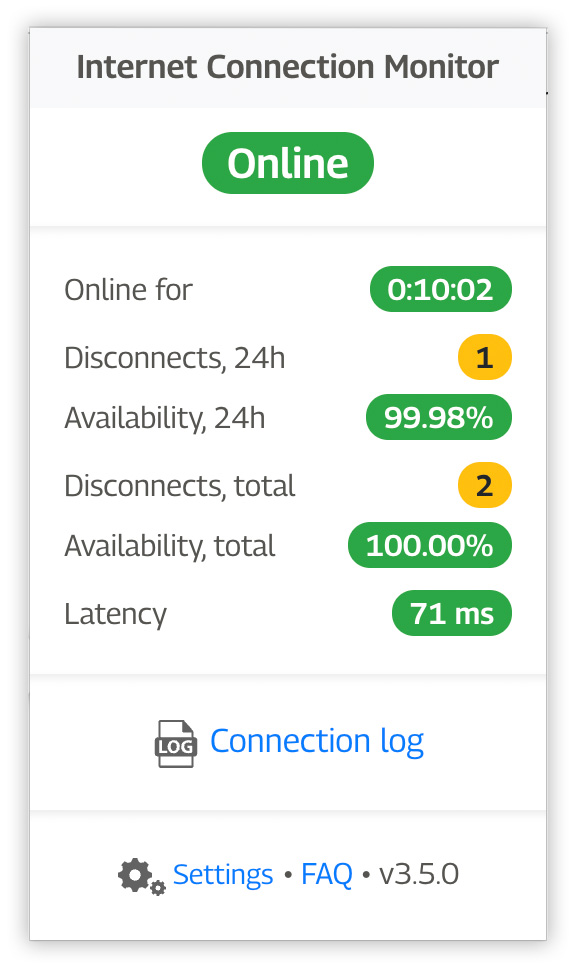
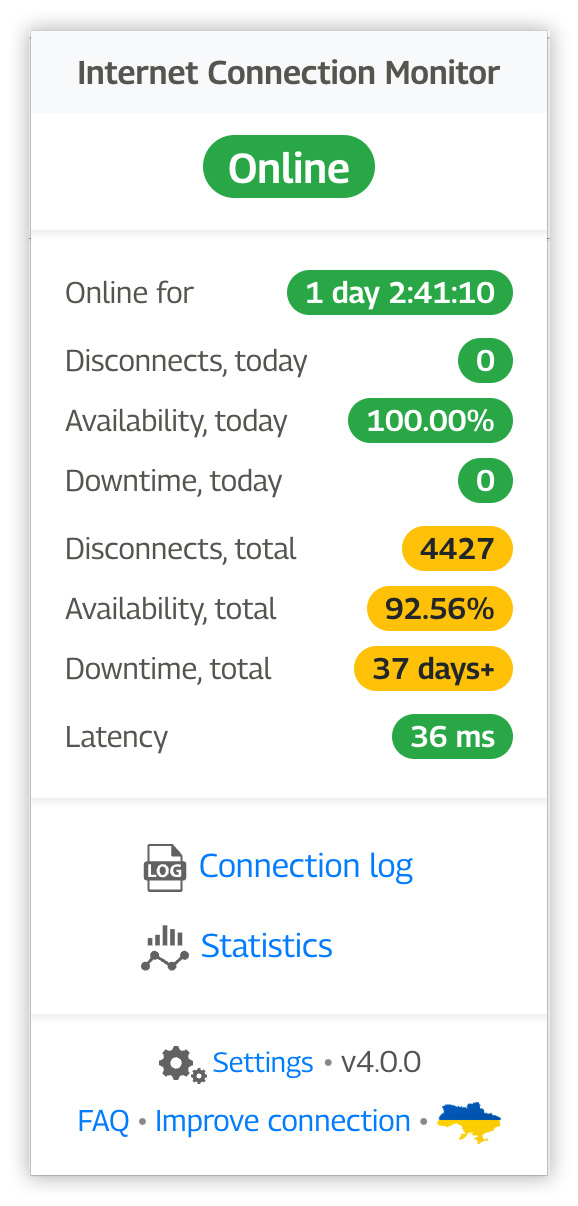
Updates for version 4.0

diff --git a/index.html b/index.html
@@ -36,7 +36,7 @@
     <div class="row">
       <div class="col text-center pt-4 pb-3">
         <a href="https://war.ukraine.ua/" target="_blank" title="The truth about the war in Ukraine">
-          <img src="img/ukraine.png" width="256" alt="Stand with Ukraine!" />
+          <img src="img/ukraine.png" width="192" alt="Stand with Ukraine!" />
         </a>
       </div>
     </div>
@@ -51,7 +51,7 @@
     <div class="row">
       <div class="col text-center mt-4 mb-5">
         <a class="btn btn-primary" href="https://chrome.google.com/webstore/detail/internet-connection-monit/hgccfdagfbilbdbkgmfdmmdfmjjoakfo" target="_blank">
-          Download ICM for Google Chrome
+          <img src="img/chrome-logo.png" height="24" />&nbsp;&nbsp;Download ICM for Google Chrome
         </a>
       </div>
     </div>
@@ -64,31 +64,41 @@
 
     <div class="row justify-content-center">
       <div class="col-md-6 col-sm-12">
-        <h5 class="text-center">FEATURES</h5>
+        <h5 class="text-center">🎯 ICM IS THE BEST FOR</h5>
+        <ul>
+          <li>Recording and analyzing outages of Internet connection</li>
+          <li>Verifying ISP/provider issues</li>
+          <li>Verifying some hardware issues</li>
+        </ul>
+
+        <h5 class="text-center">💻 FEATURES</h5>
         <ul>
           <li>Precise connectivity test with configurable testing interval</li>
           <li>Latency measurement</li>
           <li>Detect when Internet doesn't work over operating Wi-Fi or Ethernet</li>
+          <li>Disconnects, availability and downtime stats</li>
           <li>Play sound when connection goes online or offline</li>
-          <li>Access and export events log</li>
-          <li>Availability stats</li>
+          <li>Events log with CSV export</li>
+          <li>Statistics with realtime monitoring</li>
           <li>Retina-ready icon sets</li>
           <li>Light and dark themes support</li>
-          <li>RAM-friendly</li>
         </ul>
 
-        <h5 class="text-center">NEW IN ICM v3.7</h5>
+        <h5 class="text-center">🚀 NEW IN ICM v4.0</h5>
         <ul>
-          <li>Added info on how to troubleshoot Internet connection issues – <a href="https://bit.ly/icm-improve-conn">https://bit.ly/icm-improve-conn</a></li>
+          <li>Added Downtime stats</li>
+          <li>Added Statistics page with realtime monitoring</li>
+          <li>Added Status duration to the logging</li>
         </ul>
 
-        <h5 class="text-center mb-3">SCREENSHOTS</h5>
+        <h5 class="text-center mb-3">📷 SCREENSHOTS</h5>
         <div id="carouselExampleIndicators" class="carousel carousel-dark slide mb-5" data-bs-ride="carousel">
           <div class="carousel-indicators">
             <button type="button" data-bs-target="#carouselExampleIndicators" data-bs-slide-to="0" class="active" aria-current="true" aria-label="Screenshot 1"></button>
             <button type="button" data-bs-target="#carouselExampleIndicators" data-bs-slide-to="1" aria-label="Screenshot 2"></button>
             <button type="button" data-bs-target="#carouselExampleIndicators" data-bs-slide-to="2" aria-label="Screenshot 3"></button>
             <button type="button" data-bs-target="#carouselExampleIndicators" data-bs-slide-to="3" aria-label="Screenshot 4"></button>
+            <button type="button" data-bs-target="#carouselExampleIndicators" data-bs-slide-to="4" aria-label="Screenshot 5"></button>
           </div>
           <div class="carousel-inner">
             <div class="carousel-item active">
@@ -102,6 +112,9 @@
             </div>
             <div class="carousel-item">
               <img src="img/internet-connection-monitor-log.jpg" class="d-block w-100" alt="Log">
+            </div>
+            <div class="carousel-item">
+              <img src="img/internet-connection-monitor-statistics.jpg" class="d-block w-100" alt="Statistics">
             </div>
           </div>
           <!-- <button class="carousel-control-prev" type="button" data-bs-target="#carouselExampleIndicators" data-bs-slide="prev"> -->
@@ -119,7 +132,7 @@
     <div class="row">
       <div class="col text-center mt-3 mb-5">
         <a class="btn btn-primary" href="https://chrome.google.com/webstore/detail/internet-connection-monit/hgccfdagfbilbdbkgmfdmmdfmjjoakfo" target="_blank">
-          Download ICM for Google Chrome
+          <img src="img/chrome-logo.png" height="24" />&nbsp;&nbsp;Download ICM for Google Chrome
         </a>
       </div>
     </div>
@@ -132,7 +145,7 @@
       </div>
     </div>
 
-    <div class="row justify-content-center pt-3">
+    <div class="row justify-content-center pt-5">
       <div class="col-md-6 col-sm-12">
         <a name="faq"></a>
         <h3 class="text-center">FAQ</h3>
@@ -144,10 +157,10 @@
         <a name="statuses"></a>
         <strong>Q:</strong> What exactly can be monitored?<br/>
         <strong>A:</strong> The extension monitors the Internet connection and reports 3 statuses:
-        <ul>
-          <li><strong>Online:</strong> Internet connected</li>
-          <li><strong>Connection issues:</strong> ICM uses different mechanics to determine whether internet connection is up and running. If Chrome itself cannot properly determine whether Internet connection is down while you're connected to Wi-Fi/Ethernet - this status will popup. It tells you that most likely your Wi-Fi/Ethernet cable is connected, but there is no Internet connection after it. Most likely, it is a provider issue</li>
-          <li><strong>Offline</strong>: Internet disconnected. Wi-Fi/Ethernet may work or not, but Internet itself is unavailable</li>
+        <ul style="list-style: none;">
+          <li><strong>🟢 Online:</strong> Internet connected</li>
+          <li><strong>🟠 Connection issues:</strong> if Chrome itself cannot properly determine whether Internet connection is down while you're connected to Wi-Fi/Ethernet - this status will popup. Most likely, your Wi-Fi/Ethernet cable is connected, but there is no Internet connection behind it. In most cases, it is ISP/provider issue</li>
+          <li><strong>🔴 Offline:</strong> Internet disconnected. Wi-Fi/Ethernet may work or not, but Internet itself is unavailable</li>
         </ul>
 
         <strong>Q:</strong> How does the extension test the connectivity?<br/>
@@ -166,7 +179,7 @@
         <strong>A:</strong> Not, it will not. You need to have a Chrome window open to track your connection log. It's relatively easy to add Chrome to autostart on Windows, Mac or Linux<br/><br/>
 
         <strong>Q:</strong> Will it work if computer is in sleep?<br/>
-        <strong>A:</strong> Yes, it should work, but the mechanism of tracking the disconnects while the computer is in sleep has not been thoroughly tested<br/><br/>
+        <strong>A:</strong> Yes, it should work, but the mechanism of tracking the disconnects while the computer is in sleep has not been thoroughly tested. Macs, for example, wake up every couple minutes and ICM checks the connection. But do not rely on precise measurement during the computer sleep, keep the computer running<br/><br/>
 
         <strong>Q:</strong> Can you use it on Microsoft EDGE?<br/>
         <strong>A:</strong> Yes, you can<br/><br/>
@@ -195,24 +208,24 @@
       <div class="col-md-6 col-sm-12 pt-3">
         <h3 class="text-center">Support</h3>
 
-        For support, questions and suggestions, open
+        For support, questions and suggestions: open
         <a href="https://chrome.google.com/webstore/detail/internet-connection-monit/hgccfdagfbilbdbkgmfdmmdfmjjoakfo" target="_blank">
           extension's page in Chrome store
-        </a> and then click on the <strong>Support</strong> tab.
+        </a> and then click on the <strong>Support</strong> tab
 
         <br/><br/>
 
-        If you're comfortable with GitHub, go straight to
+        Alternatively, for suggestions, ideas and feature requests: go to
         <a href="https://github.com/dmishh/internet-connection-monitor-website/issues" target="_blank">
           ICM issues page on GitHub
-        </a> and ask a question or make a feature request there.
+        </a>
       </div>
     </div>
 
     <div class="row">
       <div class="col text-center pt-4 pb-4">
         <a class="btn btn-primary" href="https://chrome.google.com/webstore/detail/internet-connection-monit/hgccfdagfbilbdbkgmfdmmdfmjjoakfo" target="_blank">
-          Download ICM for Google Chrome
+          <img src="img/chrome-logo.png" height="24" />&nbsp;&nbsp;Download ICM for Google Chrome
         </a>
       </div>
     </div>
@@ -220,7 +233,7 @@
     <div class="row">
       <div class="col text-center pt-4 pb-4">
         Made with ❤ in 🇺🇦<br/>
-        &copy; Dmytro Shcherbyna 2014-2022
+        &copy; <a href="mailto:internetmonit@gmail.com">Dmytro Shcherbyna</a> 2014-2022
       </div>
     </div>
   </div>
